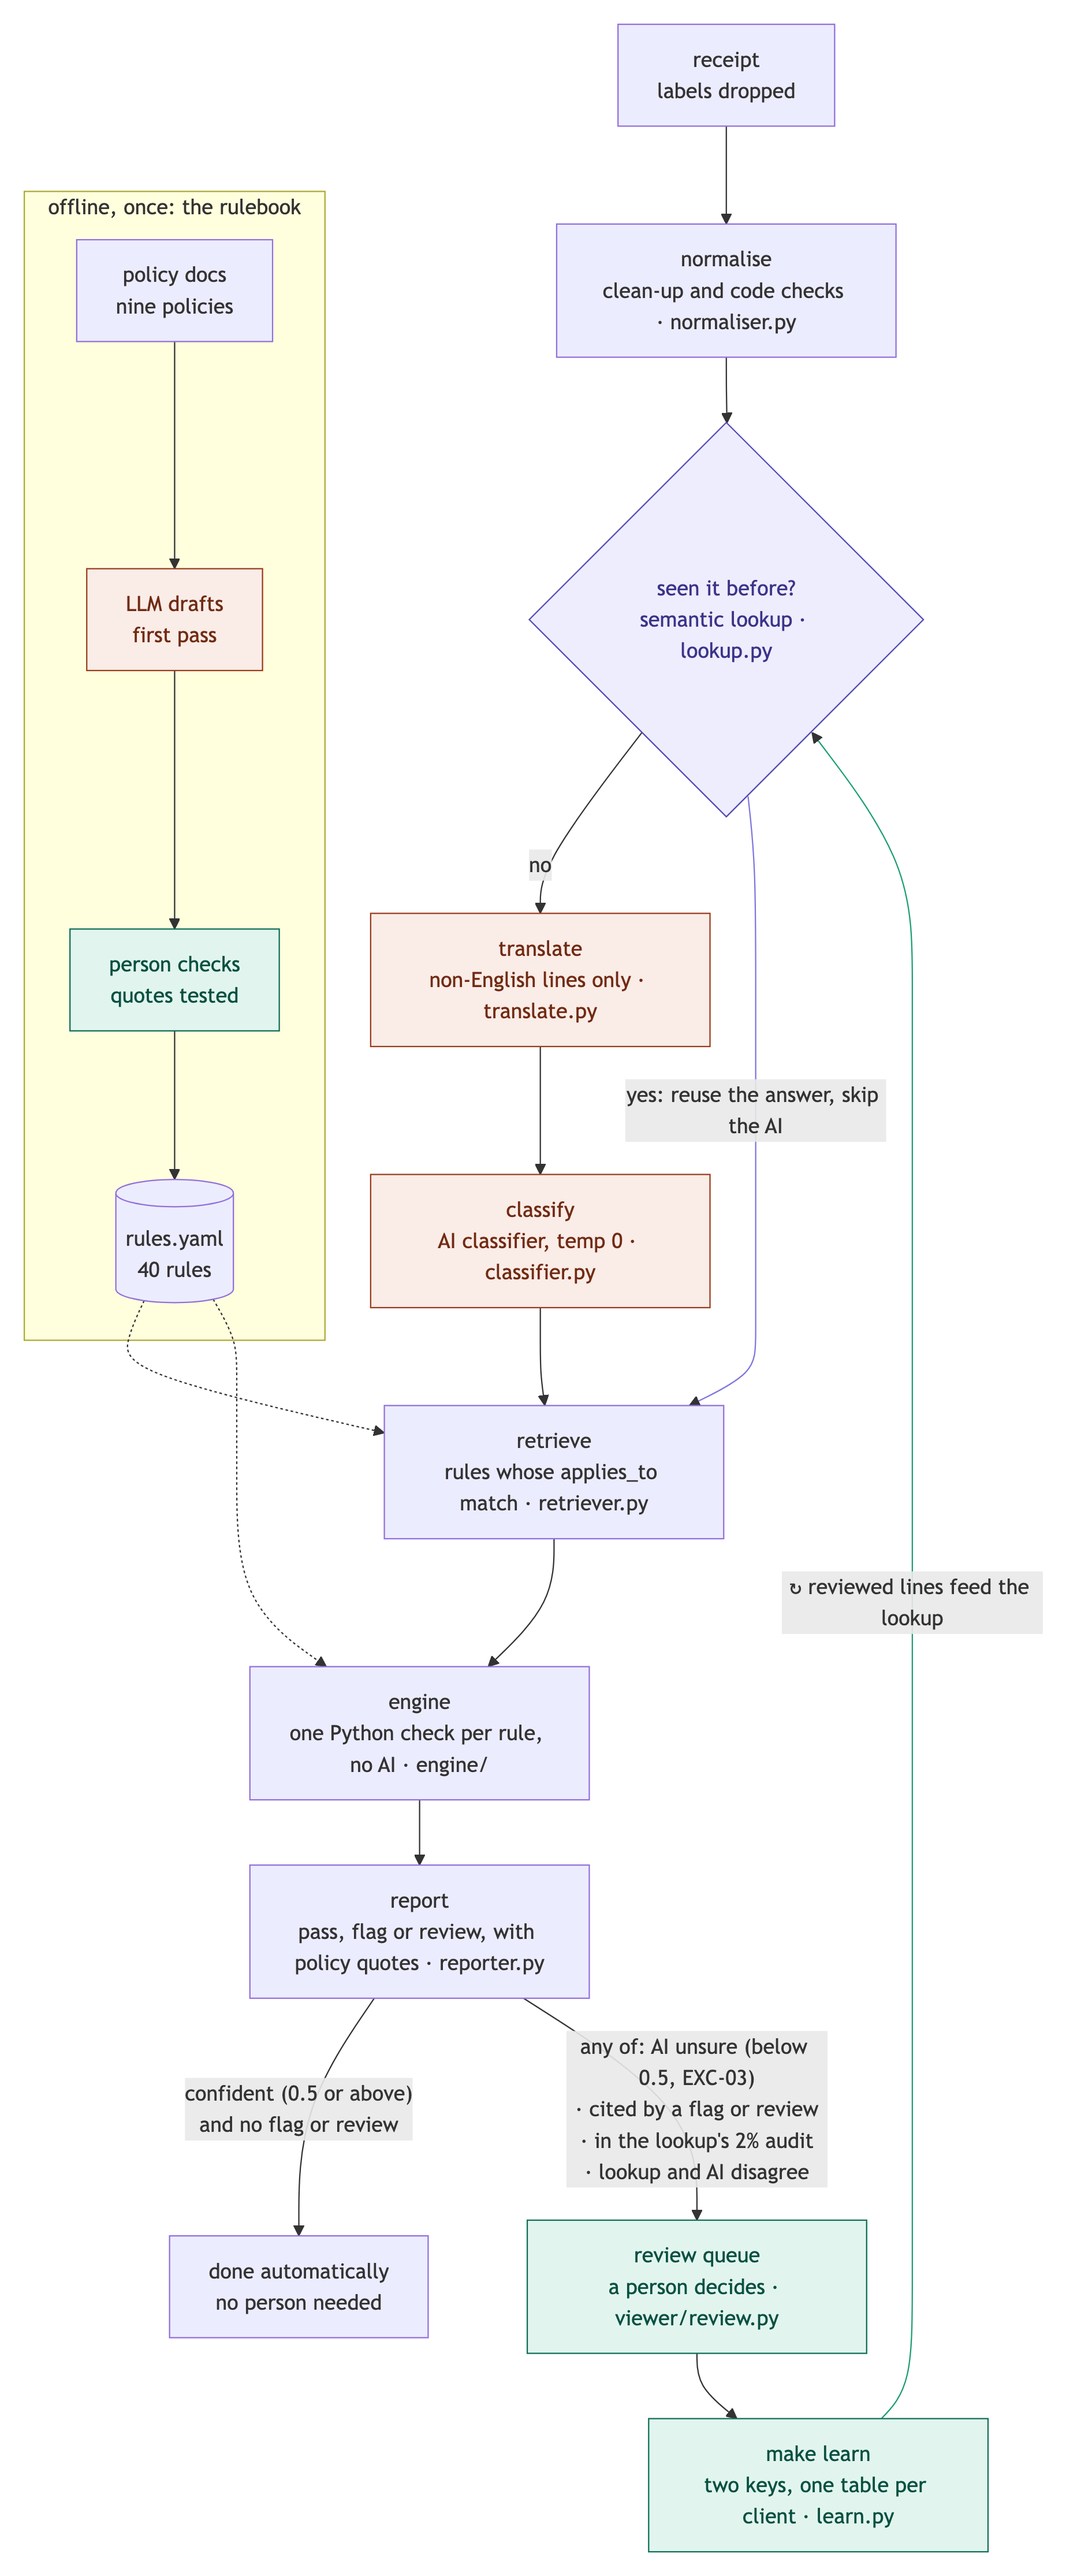
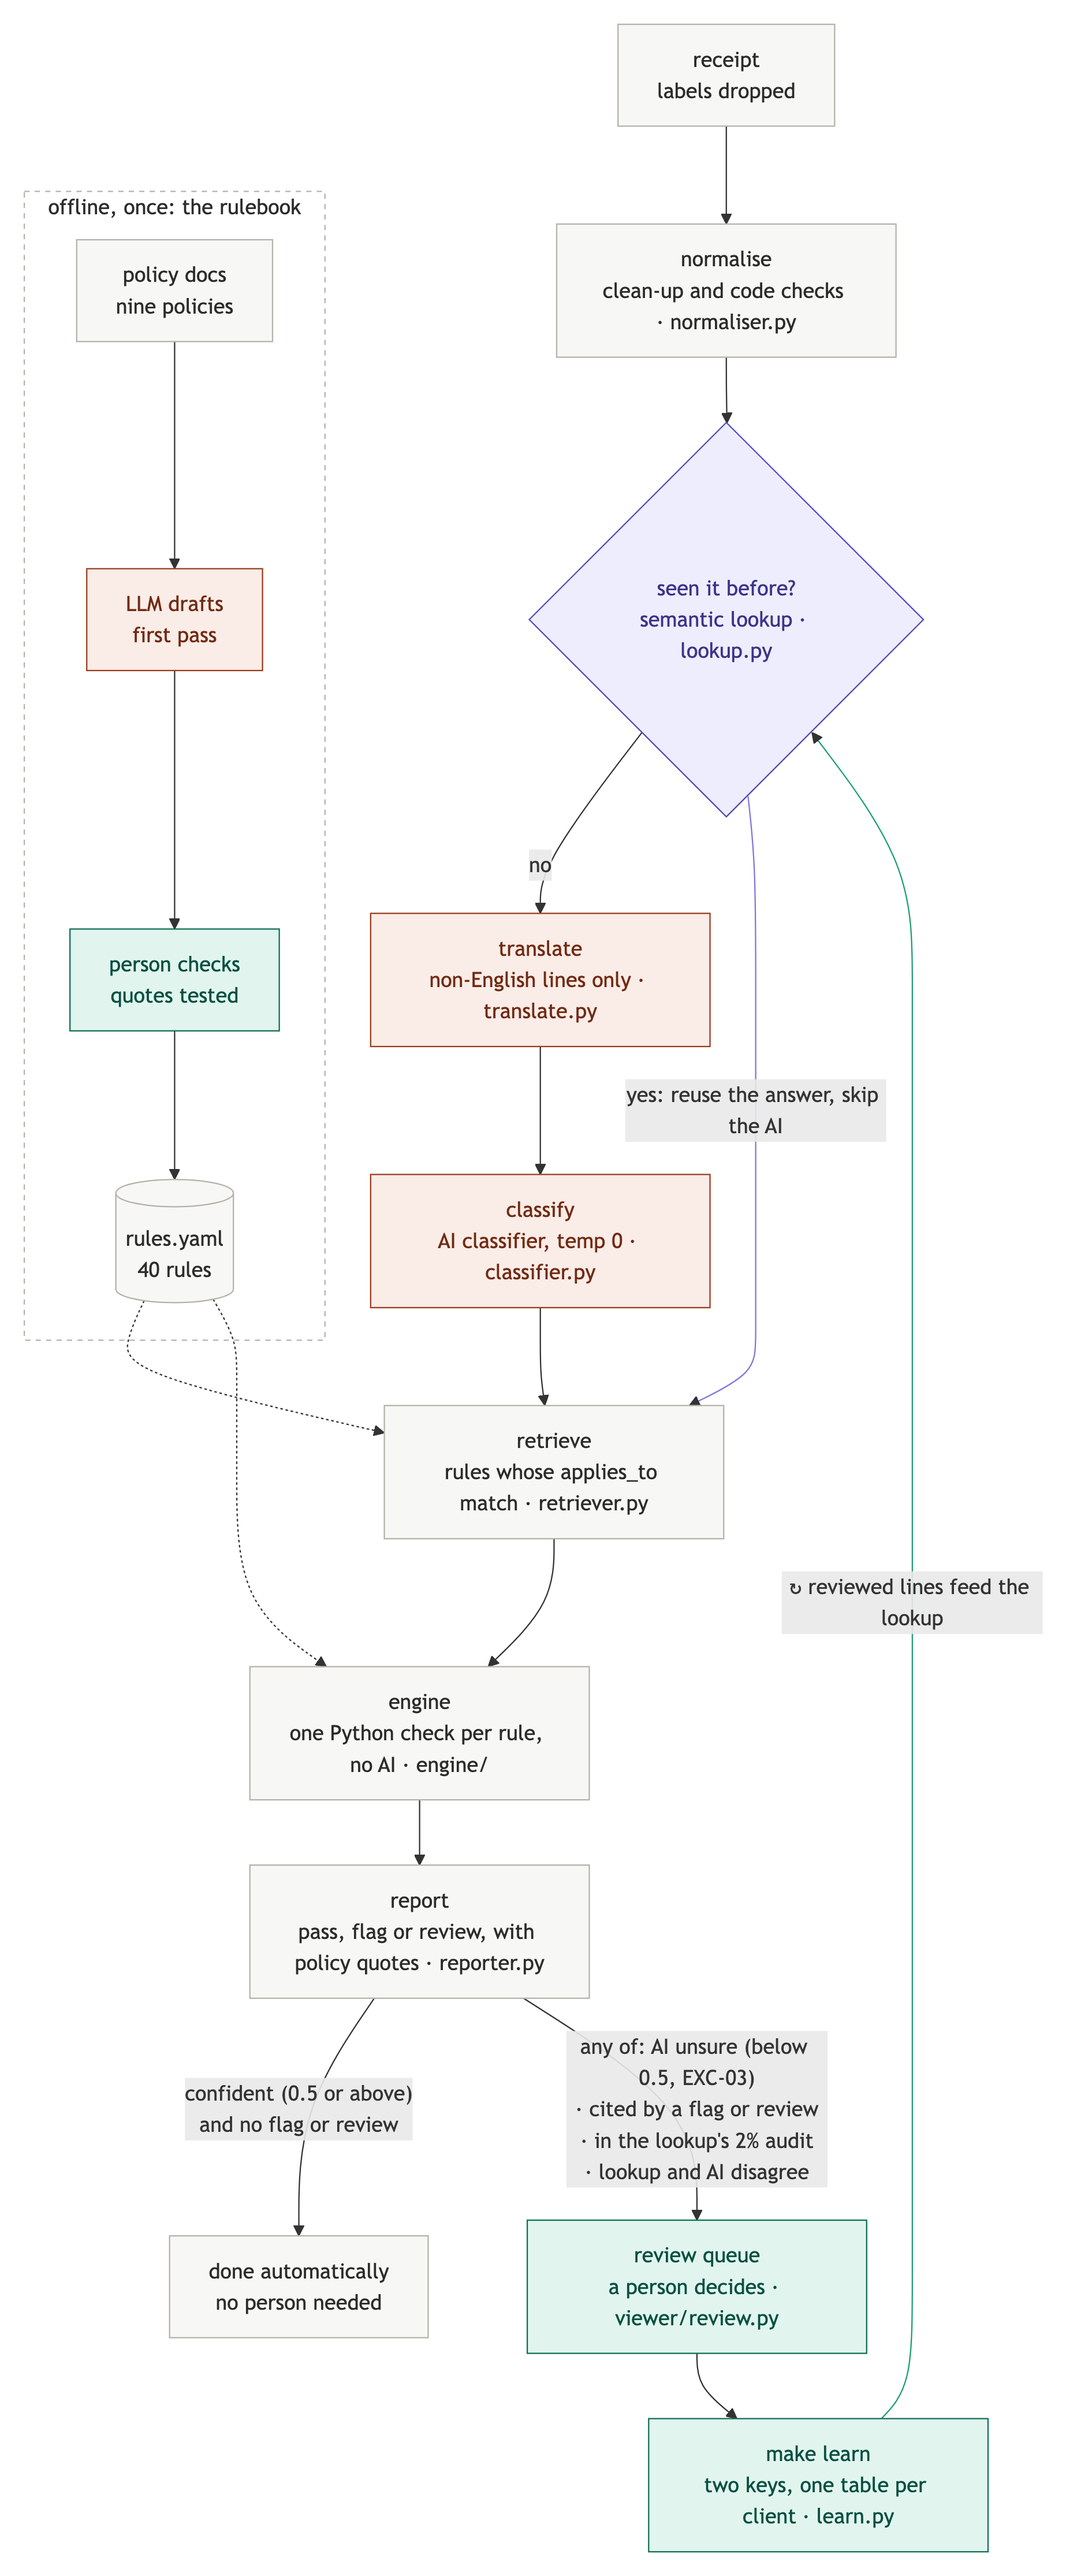
Give the Mermaid diagrams neutral boxes so only the colour key stands out
Mermaid's default painted every plain box lavender, close to the lookup's
purple, and filled the subgraphs yellow. Plain steps are now grey, the
rulebook and release blocks are white with a dashed border, and colour
marks only the model (coral), the lookup (purple) and people (teal).
Both Mermaid PNGs are re-rendered.

Changed region(s): [[0.0, 0.0623, 0.3088, 0.5298]]

diff --git a/docs/aws-design.md b/docs/aws-design.md
@@ -21,12 +21,14 @@ flowchart TB
         direction LR
         GIT["git<br/>policies, rules.yaml"] --> CI["CI<br/>quotes, oracle and synthetic suites"] --> DEP["deploy<br/>on merge"]
     end
+    classDef default fill:#F7F7F5,stroke:#B4B2A9,color:#2C2C2A
     classDef ai fill:#FAECE7,stroke:#993C1D,color:#712B13
     classDef lookup fill:#EEEDFE,stroke:#534AB7,color:#3C3489
     classDef people fill:#E1F5EE,stroke:#0F6E56,color:#085041
     class OR ai
     class LK,MEM lookup
     class RQ,LJ people
+    style release fill:#FFFFFF,stroke:#B4B2A9,stroke-dasharray:4 4,color:#2C2C2A
     linkStyle 8 stroke:#D85A30
     linkStyle 13 stroke:#1D9E75
 ```

diff --git a/README.md b/README.md
@@ -31,12 +31,14 @@ flowchart TB
     end
     Y -.-> P
     Y -.-> E
+    classDef default fill:#F7F7F5,stroke:#B4B2A9,color:#2C2C2A
     classDef ai fill:#FAECE7,stroke:#993C1D,color:#712B13
     classDef lookup fill:#EEEDFE,stroke:#534AB7,color:#3C3489
     classDef people fill:#E1F5EE,stroke:#0F6E56,color:#085041
     class Y1,T,K ai
     class L lookup
     class Y2,Q,G people
+    style offline fill:#FFFFFF,stroke:#B4B2A9,stroke-dasharray:4 4,color:#2C2C2A
     linkStyle 5 stroke:#7F77DD
     linkStyle 11 stroke:#1D9E75
 ```
